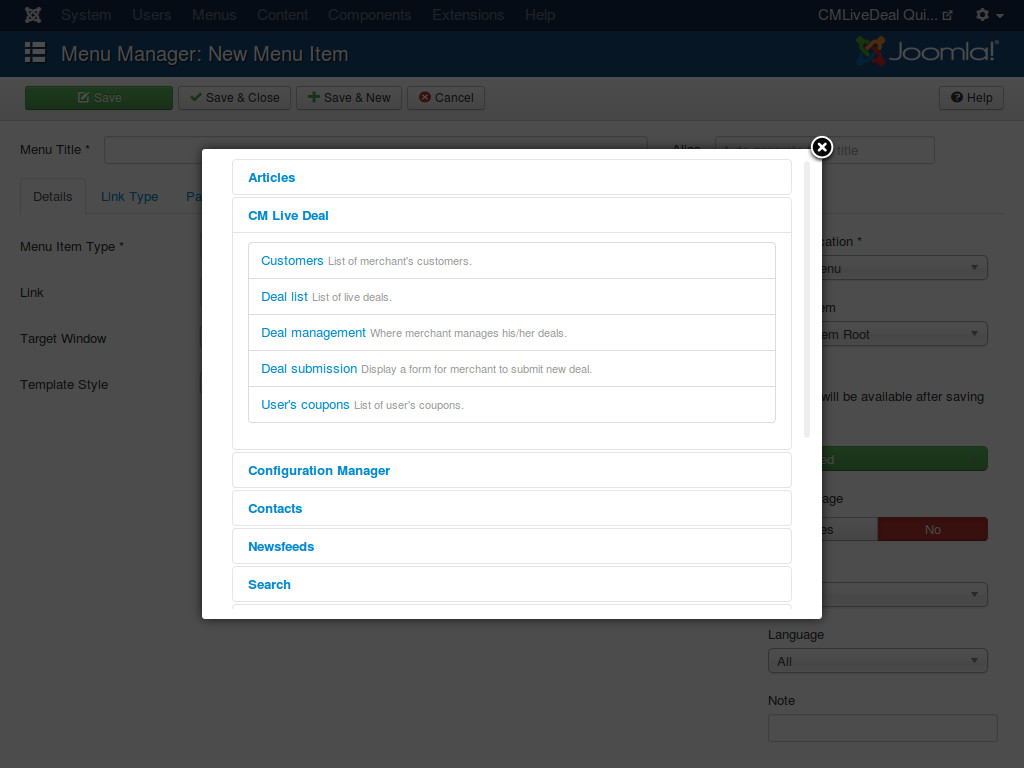
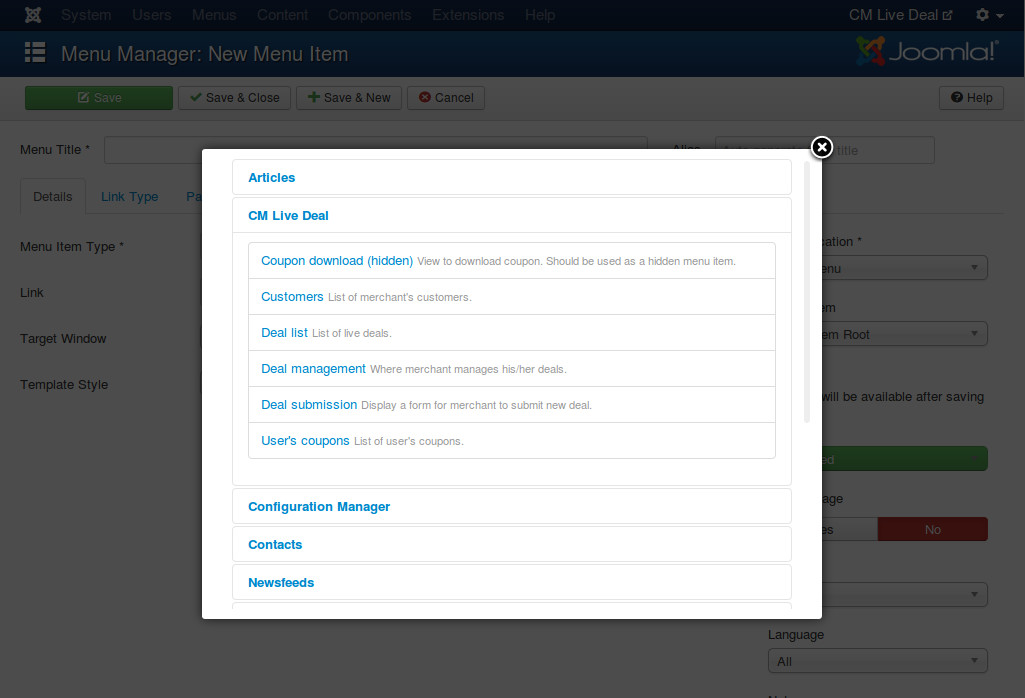
Update...

diff --git a/pages/searchdeals.rst b/pages/searchdeals.rst
@@ -1,0 +1,51 @@
+.. _ref-search:
+
+=======================
+Search for nearby deals
+=======================
+
+By using CM Live Deal Search module, user can search for deals in all cities, in a specific city or deals near user.
+
+You can check :ref:`ref-mod_cmlivedeal_search` section to know how to setup the search  module.
+
+To detect user's location, CM Live Deal uses GeoLite2 data created by MaxMind, available from `http://www.maxmind.com <http://www.maxmind.com>`_.
+
+Get GeoLite2 City database
+--------------------------
+
+GeoLite2 City is required to detect user's location. Because the database file's size is big, we don't include it in CM Live Deal's package, you need to download it from MaxMind website then upload it to your server manually.
+
+Go to `http://dev.maxmind.com/geoip/geoip2/geolite2/ <http://dev.maxmind.com/geoip/geoip2/geolite2/>`_, download the gzipped binary file of GeoLite2 City.
+
+.. image:: ../images/maxmind.jpg
+
+Use your favorite file compression software to uncompress the downloaded file, then you get the file GeoLite2-City.mmdb, upload this file to <Joomla! root folder>/administrator/components/com_cmlivedeal/helpers/geoip/database/ folder.
+
+Configure CM Live Deal component
+--------------------------------
+
+In your Joomla! back-end you go to Components -> CM Live Deal.
+
+.. image:: ../images/com_cmlivedeal_menu.jpg
+
+On the toolbar, you click "Options" button.
+
+.. image:: ../images/com_cmlivedeal_dashboard.jpg
+
+Go to "Deal" tab and set the radius (in kilometer) to search for nearby deals from user's location and the cookie lifetime.
+
+.. image:: ../images/com_cmlivedeal_deal.jpg
+
+* **Search radius from user's location**: The radius in kilometer to search for nearby deals of user. Default is 5 kilometers. This value is used when user searches for deals in his/her location by using the search module.
+* **Location cookie's lifetime**: Detect user's location requires reading the database file and make the server slow. User's location can be stored in cookie and reused later to reduce the file reads from server. With this option you can set how many days this cookie is available. Default value is 7 (days). You can disable storing cookie by using 0 value.
+
+Search in front-end
+-------------------
+
+Go to your front-end where the search module is displayed. Now if you select "Your location" in the city list and search, you will get the deals near you in the result.
+
+.. image:: ../images/search_dropdown.jpg
+
+If the database file doesn't exist, this function doesn't work.
+
+If your location can not be detected (not in MaxMind's database), you will see the error message "We can't detect your current location.".

diff --git a/pages/configuration.rst b/pages/configuration.rst
@@ -106,6 +106,8 @@ Deal
 .. image:: ../images/com_cmlivedeal_deal.jpg
 
 * **New deal notification**: Send email to administrators when there is a new deal submitted.
+* **Search radius from user's location**: The radius in kilometer to search for nearby deals of user. Default is 5 kilometers. This value is used when user searches for deals in his/her location by using the search module.
+* **Location cookie's lifetime**: Detect user's location requires reading the database file and make the server slow. User's location can be stored in cookie and reused later to reduce the file reads from server. With this option you can set how many days this cookie is available. Default value is 7 (days). You can disable storing cookie by using 0 value. You can view :ref:`ref-search` for more information.
 
 Coupon
 ^^^^^^
@@ -200,6 +202,8 @@ After saving the plugin, you receive the message "Plugin successfully saved".
 You can visit the page for merchant registration in your front-end to check if the merchant's profile fields are displayed there. The page could look like the following screenshot.
 
 .. image:: ../images/plg_user_cmldmerchant_frontend.jpg
+
+.. _ref-mod_cmlivedeal_search:
 
 CM Live Deal Search module
 -----------------------------

diff --git a/pages/coupons.rst b/pages/coupons.rst
@@ -22,6 +22,8 @@ You can create a menu item for "User's Coupons" to let users access their coupon
 
 .. image:: ../images/deal_frontend_menu.jpg
 
+To have a user friendly URL for coupon page. You need to have a menu item for "Coupon download" view. This menu item should be used as a hidden menu item, it is not visible in your front-end. To do this you create a new menu, create a new menu item for "Coupon download" page in this new menu, as long as you don't assign this new menu to a menu module and display the module in your front-end, "Coupon download" menu item is not displayed in your front-end.
+
 Administratiors manage coupons
 ------------------------------
 

diff --git a/pages/userstats.rst b/pages/userstats.rst
@@ -29,11 +29,9 @@ To enable the statistics, in your Joomla! back-end you go to Components -> CM Li
 
 .. image:: ../images/com_cmlivedeal_menu.jpg
 
-On the toolbar, you click "Coupon template".
+On the toolbar there is a button "Options", you click this button to configure the component.
 
 .. image:: ../images/com_cmlivedeal_dashboard.jpg
-
-On the toolbar there is a button "Options", you click this button to configure the component.
 
 Switch to "Merchant" tab and set "Display user's stats" and "Display user's stats" options to "Yes".
 

diff --git a/index.rst b/index.rst
@@ -22,6 +22,7 @@ This documentation gives you instruction how to install and setup CM Live Deal o
    pages/coupons
    pages/images
    pages/userstats
+   pages/searchdeals
 
 Indices and tables
 ==================
